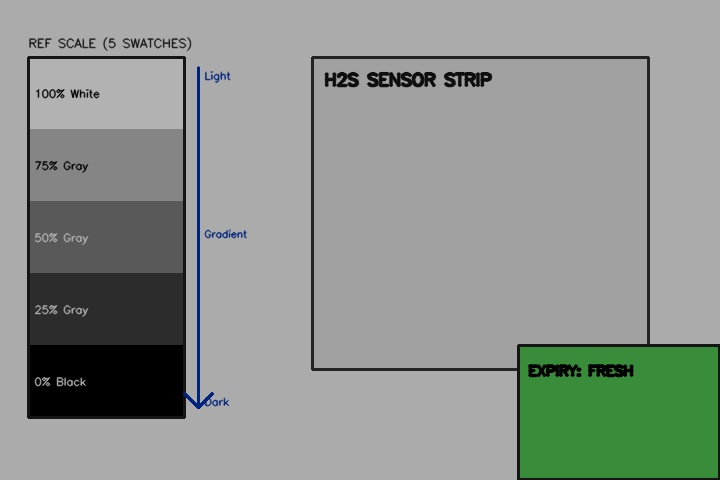
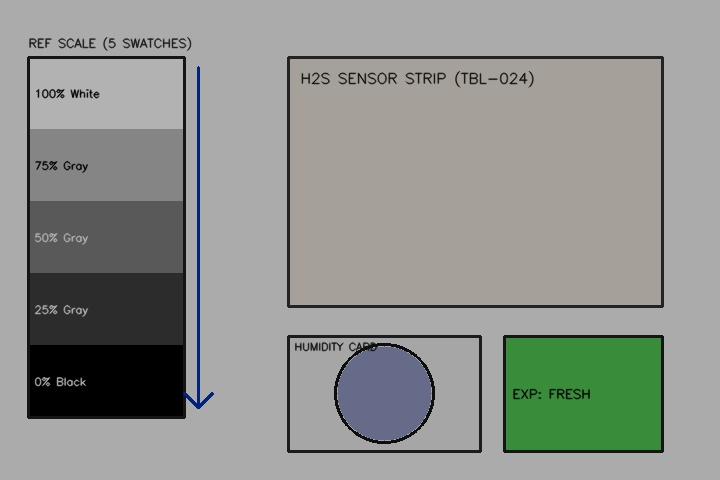
Fix badge expiry order and ensure dynamic humidity card model predictions

diff --git a/app.py b/app.py
@@ -748,43 +748,13 @@ elif page == "Scan Strip":
                         st.error(f"🚨 **Analysis Blocked:** {inf_res.get('user_message', 'Validation failed.')}")
                         st.stop()
 
-                    # Expiry patch check
+                    # Optical expiry patch check
                     expiry_res = expiry_checker.check_badge_validity(preview_bgr)
-                    is_expired = expiry_res["is_expired"]
-                    expiry_status_msg = expiry_res["status_message"]
+                    is_optical_expired = expiry_res.get("is_expired", False)
+                    expiry_status_msg = expiry_res.get("status_message", "")
 
-                    # Prevent duplicate database saves on Streamlit reruns
-                    import hashlib
-                    raw_img_sha = hashlib.sha256(image_bytes_to_process).hexdigest()
-                    current_scan_hash = hashlib.sha256(
-                        f"{worker_id_clean}_{raw_img_sha}_{ambient_temp:.1f}_{exposure_time:.2f}_{manual_humidity}_{inf_res['estimated_h2s_ppm']:.2f}".encode()
-                    ).hexdigest()
-
-                    if st.session_state.get("last_saved_scan_hash") != current_scan_hash:
-                        record_id = database.insert_reading(
-                            worker_id=worker_id_clean,
-                            intensity=inf_res["staining_intensity"],
-                            dose=inf_res["cumulative_dose_ppm_h"],
-                            risk_level=inf_res["risk_level"],
-                            is_expired=is_expired,
-                            expiry_status_message=expiry_status_msg,
-                            temperature=ambient_temp,
-                            humidity=inf_res["predicted_humidity"],
-                            raw_intensity=inf_res["staining_intensity"],
-                            corrected_intensity=inf_res["staining_intensity"],
-                            compensation_factor=1.0,
-                            predicted_humidity=inf_res["predicted_humidity"],
-                            exposure_time=exposure_time,
-                            strip_intensity=inf_res["staining_intensity"],
-                            estimated_h2s_ppm=inf_res["estimated_h2s_ppm"],
-                            data_source="SIMULATED_REFERENCE_IMAGE_MODEL"
-                        )
-                        st.session_state["last_saved_scan_hash"] = current_scan_hash
-                        st.session_state["last_saved_record_id"] = record_id
-                    else:
-                        record_id = st.session_state.get("last_saved_record_id", "Logged")
-
-                    cumulative_dose = database.get_cumulative_dose(worker_id_clean)
+                    # Unified Badge Validity Gate (Profile Active/Unexpired AND Optical Patch Unexpired)
+                    is_badge_fully_valid = is_worker_id_valid and not is_optical_expired
 
                     # Mandatory Prototype Disclaimer Banner
                     st.markdown(
@@ -799,70 +769,141 @@ elif page == "Scan Strip":
                         unsafe_allow_html=True
                     )
 
-                    st.success(f"✅ **Analysis Complete & Logged!** Record ID `#{record_id}` saved against Worker `{worker_id_clean}`.")
+                    if not is_badge_fully_valid:
+                        # Expired or invalid badge -> Strictly BLOCK saving and classification
+                        st.error("🚨 **Badge Invalid / Expired:** Badge invalid/expired — replace badge before recording exposure.")
+                        st.warning("⚠ **DIAGNOSTIC PREVIEW ONLY — EXPOSURE NOT SAVED TO DATABASE.** "
+                                   "This badge is expired or inactive. Cumulative exposure, worker history, and compliance records have NOT been updated.")
 
-                    # Primary Metrics Grid
-                    m_col1, m_col2, m_col3, m_col4 = st.columns(4)
-                    with m_col1:
-                        st.metric(
-                            "Estimated H₂S Gas",
-                            f"{inf_res['estimated_h2s_ppm']:.2f} ppm",
-                            help="Predicted by trained reference model using corrected strip RGB/HSV/intensity + temperature + humidity + exposure time"
-                        )
-                    with m_col2:
-                        st.metric(
-                            "Relative Humidity",
-                            f"{inf_res['predicted_humidity']:.1f}% RH",
-                            help=f"Source: {inf_res['humidity_source']} (Clamped: 20–90% RH)"
-                        )
-                    with m_col3:
-                        st.metric(
-                            "Cumulative Exposure",
-                            f"{inf_res['cumulative_dose_ppm_h']:.2f} ppm·h",
-                            delta=f"Total: {cumulative_dose:.2f} ppm·h",
-                            help="Shift dose (estimated ppm × hours) and total worker cumulative exposure"
-                        )
-                    with m_col4:
-                        rel_label = inf_res.get("reliability_label", "High Reliability")
-                        conf_val = inf_res.get("confidence_pct", 95)
-                        st.metric(
-                            "Prediction Reliability",
-                            f"{conf_val}%",
-                            delta=rel_label,
-                            delta_color="normal" if conf_val >= 80 else "inverse",
-                            help="Composite score: Test-strip validation + multi-ROI detection + lighting calibration"
-                        )
-
-                    # Environmental & Reliability Context Line
-                    st.caption(
-                        f"🌡 **Ambient Temperature (Manual / Demo):** `{ambient_temp:.1f} °C` &nbsp;|&nbsp; "
-                        f"⏱ **Shift Duration:** `{exposure_time:.1f} hrs` &nbsp;|&nbsp; "
-                        f"💧 **Humidity Source:** `{inf_res['humidity_source']}` &nbsp;|&nbsp; "
-                        f"🛡 **Scan Confidence:** `{inf_res.get('reliability_label', 'High Reliability')} ({inf_res.get('confidence_pct', 95)}%)`"
-                    )
-
-                    # Risk Level Banner (Evaluated only after valid prediction)
-                    st.markdown(
-                        f"""
-                        <div style="background-color: #1E293B; border-left: 4px solid {inf_res['risk_color']}; padding: 0.85rem; border-radius: 0.5rem; margin-top: 0.75rem; margin-bottom: 0.75rem;">
-                            <div style="display: flex; justify-content: space-between; align-items: center;">
-                                <strong style="color: #F8FAFC; font-size: 1rem;">🛡 Risk Classification: <span style="color: {inf_res['risk_color']};">{inf_res['risk_level']}</span></strong>
-                                <span style="background-color: {inf_res['risk_color']}33; color: {inf_res['risk_color']}; font-size: 0.75rem; font-weight: 700; padding: 2px 8px; border-radius: 4px;">
-                                    {inf_res['risk_level'].upper()}
-                                </span>
-                            </div>
-                            <p style="font-size: 0.83rem; color: #CBD5E1; margin-top: 0.35rem; margin-bottom: 0;">
-                                📋 {inf_res['action_guidance']}
-                            </p>
-                        </div>
-                        """,
-                        unsafe_allow_html=True
-                    )
-
-                    # Expiry Status Banner
-                    if is_expired:
+                        # Expiry Status Banner
                         st.error(f"❌ **Badge Expiry Status:** {expiry_status_msg}")
+
+                        # Diagnostic-only metrics grid
+                        m_col1, m_col2, m_col3, m_col4 = st.columns(4)
+                        with m_col1:
+                            st.metric(
+                                "Estimated H₂S Gas (Preview)",
+                                f"{inf_res['estimated_h2s_ppm']:.2f} ppm",
+                                help="Diagnostic preview only. Not recorded to worker history."
+                            )
+                        with m_col2:
+                            st.metric(
+                                "Relative Humidity",
+                                f"{inf_res['predicted_humidity']:.1f}% RH",
+                                help=f"Source: {inf_res['humidity_source']}"
+                            )
+                        with m_col3:
+                            st.metric(
+                                "Cumulative Exposure",
+                                "Not Recorded",
+                                delta="BLOCKED (EXPIRED)",
+                                delta_color="inverse",
+                                help="Exposure logging is strictly blocked for expired badges."
+                            )
+                        with m_col4:
+                            st.metric(
+                                "Badge Status",
+                                "EXPIRED / BLOCKED",
+                                delta="Replace Badge",
+                                delta_color="inverse",
+                                help="Replace badge with active dosimeter."
+                            )
+
                     else:
+                        # VALID BADGE -> Save to SQLite database with session-state deduplication
+                        import hashlib
+                        raw_img_sha = hashlib.sha256(image_bytes_to_process).hexdigest()
+                        current_scan_hash = hashlib.sha256(
+                            f"{worker_id_clean}_{raw_img_sha}_{ambient_temp:.1f}_{exposure_time:.2f}_{manual_humidity}_{inf_res['estimated_h2s_ppm']:.2f}".encode()
+                        ).hexdigest()
+
+                        if st.session_state.get("last_saved_scan_hash") != current_scan_hash:
+                            record_id = database.insert_reading(
+                                worker_id=worker_id_clean,
+                                intensity=inf_res["staining_intensity"],
+                                dose=inf_res["cumulative_dose_ppm_h"],
+                                risk_level=inf_res["risk_level"],
+                                is_expired=False,
+                                expiry_status_message=expiry_status_msg,
+                                temperature=ambient_temp,
+                                humidity=inf_res["predicted_humidity"],
+                                raw_intensity=inf_res["staining_intensity"],
+                                corrected_intensity=inf_res["staining_intensity"],
+                                compensation_factor=1.0,
+                                predicted_humidity=inf_res["predicted_humidity"],
+                                exposure_time=exposure_time,
+                                strip_intensity=inf_res["staining_intensity"],
+                                estimated_h2s_ppm=inf_res["estimated_h2s_ppm"],
+                                data_source="SIMULATED_REFERENCE_IMAGE_MODEL"
+                            )
+                            st.session_state["last_saved_scan_hash"] = current_scan_hash
+                            st.session_state["last_saved_record_id"] = record_id
+                        else:
+                            record_id = st.session_state.get("last_saved_record_id", "Logged")
+
+                        cumulative_dose = database.get_cumulative_dose(worker_id_clean)
+
+                        st.success(f"✅ **Analysis Complete & Logged!** Record ID `#{record_id}` saved against Worker `{worker_id_clean}`.")
+
+                        # Primary Metrics Grid
+                        m_col1, m_col2, m_col3, m_col4 = st.columns(4)
+                        with m_col1:
+                            st.metric(
+                                "Estimated H₂S Gas",
+                                f"{inf_res['estimated_h2s_ppm']:.2f} ppm",
+                                help="Predicted by trained reference model using corrected strip RGB/HSV/intensity + temperature + humidity + exposure time"
+                            )
+                        with m_col2:
+                            st.metric(
+                                "Relative Humidity",
+                                f"{inf_res['predicted_humidity']:.1f}% RH",
+                                help=f"Source: {inf_res['humidity_source']} (Clamped: 20–90% RH)"
+                            )
+                        with m_col3:
+                            st.metric(
+                                "Cumulative Exposure",
+                                f"{inf_res['cumulative_dose_ppm_h']:.2f} ppm·h",
+                                delta=f"Total: {cumulative_dose:.2f} ppm·h",
+                                help="Shift dose (estimated ppm × hours) and total worker cumulative exposure"
+                            )
+                        with m_col4:
+                            rel_label = inf_res.get("reliability_label", "High Reliability")
+                            conf_val = inf_res.get("confidence_pct", 95)
+                            st.metric(
+                                "Prediction Reliability",
+                                f"{conf_val}%",
+                                delta=rel_label,
+                                delta_color="normal" if conf_val >= 80 else "inverse",
+                                help="Composite score: Test-strip validation + multi-ROI detection + lighting calibration"
+                            )
+
+                        # Environmental & Reliability Context Line
+                        st.caption(
+                            f"🌡 **Ambient Temperature (Manual / Demo):** `{ambient_temp:.1f} °C` &nbsp;|&nbsp; "
+                            f"⏱ **Shift Duration:** `{exposure_time:.1f} hrs` &nbsp;|&nbsp; "
+                            f"💧 **Humidity Source:** `{inf_res['humidity_source']}` &nbsp;|&nbsp; "
+                            f"🛡 **Scan Confidence:** `{inf_res.get('reliability_label', 'High Reliability')} ({inf_res.get('confidence_pct', 95)}%)`"
+                        )
+
+                        # Risk Level Banner (Evaluated only after valid prediction on unexpired badge)
+                        st.markdown(
+                            f"""
+                            <div style="background-color: #1E293B; border-left: 4px solid {inf_res['risk_color']}; padding: 0.85rem; border-radius: 0.5rem; margin-top: 0.75rem; margin-bottom: 0.75rem;">
+                                <div style="display: flex; justify-content: space-between; align-items: center;">
+                                    <strong style="color: #F8FAFC; font-size: 1rem;">🛡 Risk Classification: <span style="color: {inf_res['risk_color']};">{inf_res['risk_level']}</span></strong>
+                                    <span style="background-color: {inf_res['risk_color']}33; color: {inf_res['risk_color']}; font-size: 0.75rem; font-weight: 700; padding: 2px 8px; border-radius: 4px;">
+                                        {inf_res['risk_level'].upper()}
+                                    </span>
+                                </div>
+                                <p style="font-size: 0.83rem; color: #CBD5E1; margin-top: 0.35rem; margin-bottom: 0;">
+                                    📋 {inf_res['action_guidance']}
+                                </p>
+                            </div>
+                            """,
+                            unsafe_allow_html=True
+                        )
+
+                        # Expiry Status Banner
                         st.info(f"✅ **Badge Expiry Status:** {expiry_status_msg}")
 
                     # ---------------------------------------------------------

diff --git a/roi_detector.py b/roi_detector.py
@@ -150,6 +150,66 @@ def extract_center_features(
     }
 
 
+def extract_humidity_card_features(
+    image_bgr: np.ndarray,
+    box: Tuple[int, int, int, int]
+) -> Dict[str, float]:
+    """
+    Extracts RGB and HSV features specifically from the circular colored disc
+    of the humidity indicator card, excluding the card background and dark outer border.
+    Uses the exact same preprocessing (RGB mean, HSV via cv2.cvtColor) as during model training.
+    """
+    x1, y1, x2, y2 = box
+    crop_bgr = image_bgr[y1:y2, x1:x2]
+    
+    if crop_bgr.size == 0:
+        return {
+            "mean_r": 128.0, "mean_g": 128.0, "mean_b": 128.0,
+            "hue": 0.0, "sat": 0.0, "val": 128.0
+        }
+    
+    ch, cw = crop_bgr.shape[:2]
+    cx, cy = cw // 2, ch // 2
+    r_sample = max(5, int(min(ch, cw) // 2 - 10))
+    
+    yy, xx = np.ogrid[:ch, :cw]
+    dist = np.sqrt((xx - cx)**2 + (yy - cy)**2)
+    circle_mask = dist <= r_sample
+    
+    disc_pixels_bgr = crop_bgr[circle_mask]
+    
+    # Exclude white card background (>225 in all RGB channels) and black border (<40 in all channels)
+    valid_pixels = []
+    for px in disc_pixels_bgr:
+        b, g, r = float(px[0]), float(px[1]), float(px[2])
+        is_white = (r > 225 and g > 225 and b > 225 and max(abs(r - g), abs(g - b), abs(r - b)) < 18)
+        is_black = (r < 40 and g < 40 and b < 40)
+        if not is_white and not is_black:
+            valid_pixels.append(px)
+            
+    if len(valid_pixels) >= 12:
+        sampled_bgr = np.array(valid_pixels, dtype=np.uint8)
+    else:
+        # Fallback to inner core
+        core_mask = dist <= max(4, r_sample // 2)
+        sampled_bgr = crop_bgr[core_mask]
+        if sampled_bgr.size == 0:
+            sampled_bgr = crop_bgr
+            
+    clean_rgb = sampled_bgr[:, [2, 1, 0]]
+    rgb_reshaped = clean_rgb.reshape(-1, 1, 3)
+    hsv_reshaped = cv2.cvtColor(rgb_reshaped, cv2.COLOR_RGB2HSV)
+    
+    return {
+        "mean_r": float(np.mean(clean_rgb[:, 0])),
+        "mean_g": float(np.mean(clean_rgb[:, 1])),
+        "mean_b": float(np.mean(clean_rgb[:, 2])),
+        "hue": float(np.mean(hsv_reshaped[:, 0, 0])),
+        "sat": float(np.mean(hsv_reshaped[:, 0, 1])),
+        "val": float(np.mean(hsv_reshaped[:, 0, 2]))
+    }
+
+
 def draw_roi_visual_overlay(
     image_bgr: np.ndarray,
     detections: Dict[str, Any]

diff --git a/inference_engine.py b/inference_engine.py
@@ -21,7 +21,7 @@ import pandas as pd
 import cv2
 
 from calibration import calibrate_image, ReferenceScaleNotFoundError
-from roi_detector import detect_all_rois, extract_center_features, draw_roi_visual_overlay
+from roi_detector import detect_all_rois, extract_center_features, extract_humidity_card_features, draw_roi_visual_overlay
 from strip_validator import validate_test_strip, INVALID_IMAGE_MESSAGE, UNCERTAIN_IMAGE_MESSAGE
 
 MODELS_DIR = os.path.join(os.path.dirname(__file__), "models")
@@ -194,7 +194,7 @@ class DoseBandInferencePipeline:
         hum_box = roi_detections["humidity_indicator"]["box"]
 
         h2s_feats = extract_center_features(corrected_bgr, h2s_box, crop_fraction=0.60)
-        hum_feats = extract_center_features(corrected_bgr, hum_box, crop_fraction=0.60)
+        hum_feats = extract_humidity_card_features(corrected_bgr, hum_box)
 
         # 4. Predict Humidity via KNN or Manual Override
         if manual_humidity_override is not None:

diff --git a/calibration.py b/calibration.py
@@ -142,9 +142,11 @@ def detect_reference_scale(image: np.ndarray) -> List[Tuple[float, float, float]
         if segment.size == 0:
             raise ReferenceScaleNotFoundError("Reference scale segment extraction failed.")
 
-        # Compute mean color in BGR for the segment
-        mean_bgr = cv2.mean(segment)[:3]
-        detected_bgr_colors.append((float(mean_bgr[0]), float(mean_bgr[1]), float(mean_bgr[2])))
+        # Compute robust median color in BGR for the segment (rejects printed text labels & border noise)
+        med_b = float(np.median(segment[:, :, 0]))
+        med_g = float(np.median(segment[:, :, 1]))
+        med_r = float(np.median(segment[:, :, 2]))
+        detected_bgr_colors.append((med_b, med_g, med_r))
 
     if len(detected_bgr_colors) != 5:
         raise ReferenceScaleNotFoundError("Could not reliably extract 5 color swatch segments.")

diff --git a/train_reference_models.py b/train_reference_models.py
@@ -106,7 +106,7 @@ def train_h2s_random_forest(
 def train_humidity_knn(
     csv_path: str = HUMIDITY_CSV_PATH,
     model_output_path: str = HUMIDITY_MODEL_PATH,
-    n_neighbors: int = 3
+    n_neighbors: int = 1
 ) -> Tuple[KNeighborsRegressor, Dict[str, float]]:
     """
     Trains a KNeighborsRegressor mapping color features to relative humidity (%RH).
